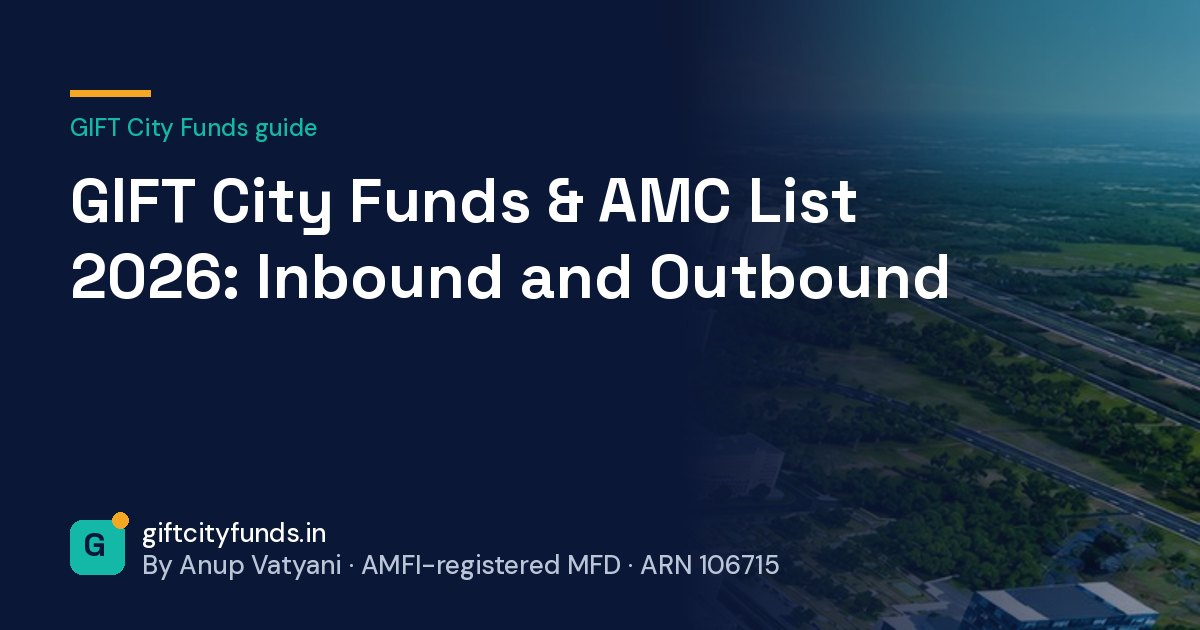
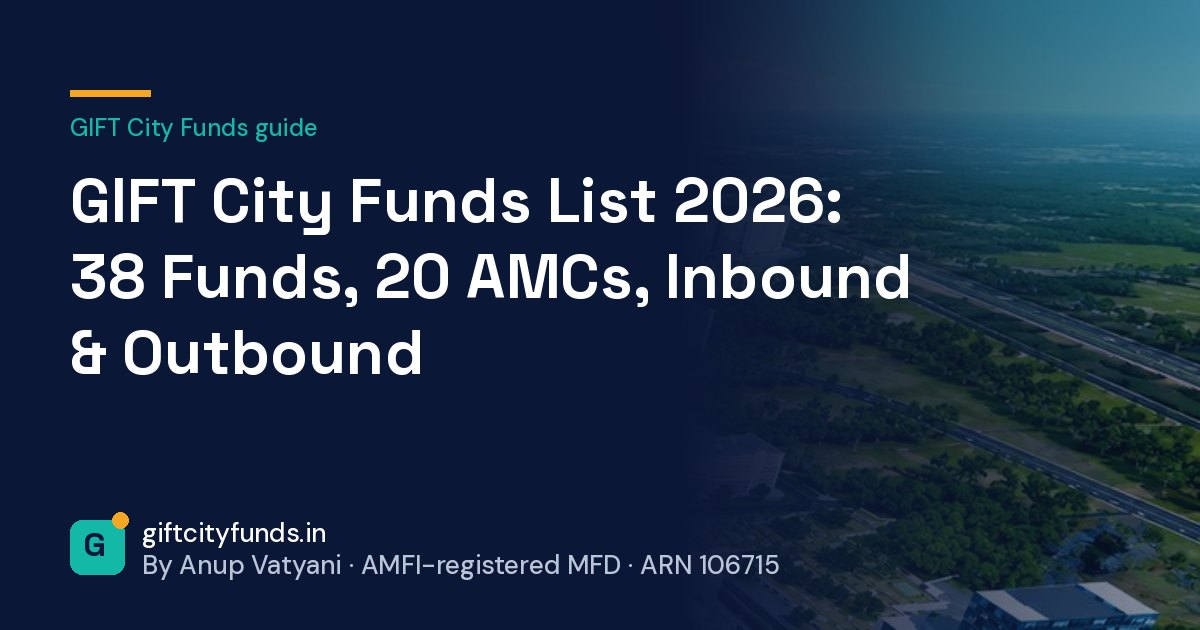
Add files via upload

Changed region(s): [[0.0617, 0.3921, 0.8017, 0.4825], [0.0617, 0.5127, 0.37, 0.6032], [0.4625, 0.2714, 0.7092, 0.3619]]

diff --git a/src/pages/NriGulf.tsx b/src/pages/NriGulf.tsx
@@ -1,0 +1,90 @@
+import { Link } from "react-router-dom";
+import { p, a, ul, h3, table, th, td } from "@/components/GuidePage";
+import { NriCountryPage } from "@/components/NriCountryPage";
+
+// Tax facts per PwC Worldwide Tax Summaries (Saudi Arabia reviewed 29 Jul 2026,
+// Qatar 17 Sep 2026, Kuwait 22 Jul 2026, Bahrain 26 Jul 2026) and KPMG Oman
+// (Royal Decree 56/2025). Re-check before changing.
+const NriGulf = () => (
+  <NriCountryPage
+    code="gulf"
+    path="/gift-city-funds-for-gulf-nris"
+    name="Saudi Arabia, Qatar, Kuwait, Bahrain and Oman"
+    short="Gulf"
+    headline="GIFT City Funds for Gulf NRIs: Saudi Arabia, Qatar, Kuwait, Bahrain and Oman (2026)"
+    seoTitle="GIFT City Funds for Gulf NRIs: Saudi, Qatar, Kuwait, Bahrain, Oman"
+    description="How NRIs in Saudi Arabia, Qatar, Kuwait, Bahrain and Oman invest in GIFT City funds in US Dollars: local tax country by country, Oman's 2028 income tax, India's deemed-resident rule, documents."
+    datePublished="2026-11-02"
+    taxHeading="How Gulf countries tax GIFT City funds"
+    intro={<>NRIs living in Saudi Arabia, Qatar, Kuwait, Bahrain or Oman can invest in GIFT City funds <strong className="text-primary">directly in US Dollars</strong> from a local bank account, with no LRS and no TCS. None of these countries currently taxes individuals on personal investment income, and most Gulf currencies are pegged to the dollar. Two things to watch: <strong className="text-primary">Oman's personal income tax from 2028</strong> for high earners, and India's <strong className="text-primary">deemed-resident rule</strong> if your Indian income is large. If you live in Dubai or Abu Dhabi, see the <Link to="/gift-city-funds-for-uae-nris" className={a}>UAE guide</Link>.</>}
+    facts={[
+      ["Countries covered", "Saudi Arabia, Qatar, Kuwait, Bahrain and Oman (UAE has its own guide)"],
+      ["Local tax on personal investment income", "None in any of the five today; Oman introduces a 5% income tax from 1 January 2028 on gross income above OMR 42,000"],
+      ["Currencies", "Saudi riyal, Qatari riyal, Bahraini dinar and Omani rial are pegged to the US Dollar; the Kuwaiti dinar is pegged to a basket of currencies"],
+      ["Tax treaty with India", "Yes, with each of the five"],
+      ["LRS or TCS?", "No. Those apply only to resident Indians sending money out of India."],
+      ["Main thing to check", "India's deemed-resident rule if your Indian income exceeds ₹15 lakh"],
+    ]}
+    steps={[
+      { title: "Choose a fund", sub: "Inbound (India) or outbound (global)" },
+      { title: "Confirm eligibility", sub: "For your country of residence" },
+      { title: "KYC with the fund house", sub: "Passport, Iqama or residence permit" },
+      { title: "Transfer USD from the Gulf", sub: "Or local currency converted" },
+      { title: "Units allotted", sub: "Track on the investor portal" },
+    ]}
+    fundNote={<>None of the fund houses we track publishes an exclusion for these five countries. Several offer documents exclude FATF-listed jurisdictions; check the current list for your country.</>}
+    tax={
+      <>
+        <div tabIndex={0} role="region" aria-label="Table, scroll sideways to see more" className="overflow-x-auto">
+          <table className={table}>
+            <caption className="sr-only">Tax on personal investment income in the Gulf, country by country</caption>
+            <thead><tr><th className={th}>Country</th><th className={th}>Personal income tax</th><th className={th}>Investment income and gains</th><th className={th}>Currency</th></tr></thead>
+            <tbody>
+              <tr><th scope="row" className={th}>Saudi Arabia</th><td className={td}>No individual income tax scheme</td><td className={td}>Not taxed as personal income</td><td className={td}>Riyal, pegged to USD</td></tr>
+              <tr><th scope="row" className={th}>Qatar</th><td className={td}>No tax on salaries; only qualifying Qatar-source income is taxable</td><td className={td}>Interest and gains on securities not taxed for individuals without a taxable activity in Qatar</td><td className={td}>Riyal, pegged to USD</td></tr>
+              <tr><th scope="row" className={th}>Kuwait</th><td className={td}>No personal income tax regime</td><td className={td}>Not taxed</td><td className={td}>Dinar, pegged to a basket</td></tr>
+              <tr><th scope="row" className={th}>Bahrain</th><td className={td}>No personal income tax regime</td><td className={td}>Not taxed</td><td className={td}>Dinar, pegged to USD</td></tr>
+              <tr><th scope="row" className={th}>Oman</th><td className={td}>None today; 5% from 1 January 2028 on gross income above OMR 42,000</td><td className={td}>Treatment of foreign investment income under the new law awaits executive regulations</td><td className={td}>Rial, pegged to USD</td></tr>
+            </tbody>
+          </table>
+        </div>
+        <h3 className={h3}>Oman's income tax from 2028</h3>
+        <p className={p}>
+          Royal Decree 56/2025 introduces a 5% personal income tax from 1 January 2028 on individuals whose annual gross income exceeds OMR 42,000 (about USD 109,000). Exemptions include a primary residence, and income earned outside Oman may get a one-time two-year exemption. Executive regulations will settle the detail, so Oman-based investors with high incomes should take advice before 2028.
+        </p>
+        <h3 className={h3}>The deemed-resident rule for Gulf NRIs</h3>
+        <p className={p}>
+          Under Section 6(1A) of India's Income-tax Act, an Indian citizen whose income other than foreign-source income exceeds ₹15 lakh is deemed resident in India if they are not liable to tax in any other country because of domicile or residence. Because these countries do not tax individuals' income, Gulf-based NRIs with substantial Indian income should check this every year. Deemed residents are treated as Resident but Not Ordinarily Resident (RNOR).
+        </p>
+        <ul className={ul + " mt-3"}>
+          <li>India has tax treaties with Saudi Arabia, Qatar, Kuwait, Bahrain and Oman. A tax residency certificate from your country's tax authority is usually needed to rely on one.</li>
+          <li>Rules change; confirm your position with a tax adviser in your country.</li>
+        </ul>
+      </>
+    }
+    docs={[
+      "Passport (and OCI card if you are not an Indian citizen)",
+      "Residence permit: Iqama (Saudi Arabia), QID (Qatar), Civil ID (Kuwait), CPR (Bahrain) or resident card (Oman)",
+      "Local address proof, such as a utility bill or tenancy contract",
+      "PAN, if you have one; some funds ask for it",
+      "Tax residency certificate, if you want to rely on a tax treaty",
+      "FATCA and CRS self-certification",
+    ]}
+    money={
+      <p className={p}>
+        Transfer US Dollars from your Gulf bank account to the fund's subscription account, or ask your bank to convert riyals or dinars. With currencies pegged to the dollar (Kuwait's to a basket), the conversion carries little exchange-rate risk; the risk is in the fund's markets and, for inbound funds, the rupee. Redemptions are paid in US Dollars to an account outside India. Compare with an <Link to="/insights/gift-city-fd-vs-nre-fcnr" className={a}>NRE or FCNR deposit</Link>.
+      </p>
+    }
+    faqs={[
+      { q: "Can NRIs in Saudi Arabia invest in GIFT City funds?", a: "Yes. NRIs living in Saudi Arabia can invest in GIFT City funds that accept Saudi residents, in US Dollars from a Saudi bank account, with their passport and Iqama for KYC. Saudi Arabia has no individual income tax scheme." },
+      { q: "Can NRIs in Qatar invest in GIFT City funds?", a: "Yes, in funds that accept Qatar residents. Qatar does not tax salaries, and interest and gains on securities are not taxed for individuals who do not carry on a taxable activity in Qatar." },
+      { q: "Can NRIs in Kuwait, Bahrain or Oman invest in GIFT City funds?", a: "Yes, in funds that accept residents of those countries. Kuwait and Bahrain have no personal income tax. Oman has none today but introduces a 5% tax from 1 January 2028 on gross income above OMR 42,000." },
+      { q: "Can NRIs in the Middle East invest in GIFT City funds?", a: "Yes. NRIs across the Middle East (UAE, Saudi Arabia, Qatar, Kuwait, Bahrain and Oman) can invest in GIFT City funds that accept their country of residence, in US Dollars from a local bank account, without LRS or TCS. The UAE has its own guide; this page covers the other five Gulf countries." },
+      { q: "Do Gulf NRIs pay tax on GIFT City funds?", a: "Not in Saudi Arabia, Qatar, Kuwait or Bahrain on personal investment income under current rules. On the Indian side, many GIFT City funds are structured so that non-residents bear little or no Indian tax; check the specific fund. Watch India's deemed-resident rule if your Indian income exceeds ₹15 lakh." },
+      { q: "Which is better for Gulf NRIs, GIFT City funds or NRE deposits?", a: "They do different jobs. NRE and FCNR deposits are bank deposits; GIFT City funds are market-linked investments in US Dollars. Neither is better in general; it depends on your goals and risk. See our comparison of GIFT City FDs, NRE and FCNR." },
+    ]}
+    sources={["pwcSaudi", "pwcQatar", "pwcKuwait", "pwcBahrain", "kpmgOman", "itResidency", "incomeTax", "ifscaDirectory"]}
+  />
+);
+
+export default NriGulf;

diff --git a/src/pages/NriGuide.tsx b/src/pages/NriGuide.tsx
@@ -29,6 +29,7 @@ const COUNTRIES: Country[] = [
   },
   {
     id: "gulf",
+    page: "/gift-city-funds-for-gulf-nris",
     name: "Saudi Arabia, Qatar, Kuwait, Bahrain and Oman",
     summary: "Like the UAE, most Gulf countries do not tax individuals on investment income, and their currencies are mostly pegged to the US Dollar.",
     tax: [
@@ -126,7 +127,7 @@ const COUNTRIES: Country[] = [
   },
 ];
 
-const CARD_NAME: Record<string, string> = { uae: "the UAE", uk: "the UK", us: "the US", canada: "Canada", singapore: "Singapore" };
+const CARD_NAME: Record<string, string> = { gulf: "Saudi Arabia, Qatar, Kuwait, Bahrain and Oman", uae: "the UAE", uk: "the UK", us: "the US", canada: "Canada", singapore: "Singapore" };
 
 const faqs: Faq[] = [
   { q: "Can NRIs invest in GIFT City in India?", a: "Yes. NRIs can invest in GIFT City funds, deposits, bonds and US stocks through India's GIFT IFSC, usually in US Dollars from an overseas bank account, without LRS or TCS. Each fund or bank sets its own eligibility; some exclude US or Canadian residents." },
@@ -146,7 +147,7 @@ const NriGuide = () => (
     description="GIFT City funds for NRIs: invest in USD with no LRS, minimums from USD 500, documents, and tax rules for the UAE, Gulf, UK, US, Canada, Singapore and Australia."
     crumb="GIFT City Funds for NRIs"
     datePublished="2026-10-09"
-    dateModified="2026-10-26"
+    dateModified="2026-11-02"
     faqs={faqs}
     sources={["ifscaDirectory", "irs8621", "uaeTax", "hmrcOffshore", "ukFig", "craT1135", "irasOverseas", "incomeTax"]}
   >
@@ -212,8 +213,8 @@ const NriGuide = () => (
         <thead><tr><th className={th}>Where you live</th><th className={th}>Home tax on investment income</th><th className={th}>Main thing to check</th></tr></thead>
         <tbody>
           <tr><td className={td}><Link to="/gift-city-funds-for-uae-nris" className={a}>UAE</Link></td><td className={td}>None for individuals</td><td className={td}>Indian deemed-resident rule</td></tr>
-          <tr><td className={td}>Saudi, Qatar, Kuwait, Bahrain</td><td className={td}>None for individuals</td><td className={td}>Fund eligibility for your country</td></tr>
-          <tr><td className={td}>Oman</td><td className={td}>5% on high earners from 2028</td><td className={td}>Whether it applies to you</td></tr>
+          <tr><td className={td}><Link to="/gift-city-funds-for-gulf-nris" className={a}>Saudi, Qatar, Kuwait, Bahrain</Link></td><td className={td}>None for individuals</td><td className={td}>Fund eligibility for your country</td></tr>
+          <tr><td className={td}><Link to="/gift-city-funds-for-gulf-nris" className={a}>Oman</Link></td><td className={td}>5% on high earners from 2028</td><td className={td}>Whether it applies to you</td></tr>
           <tr><td className={td}><Link to="/gift-city-funds-for-uk-nris" className={a}>UK</Link></td><td className={td}>Yes</td><td className={td}>Reporting fund status</td></tr>
           <tr><td className={td}><Link to="/gift-city-funds-for-us-nris" className={a}>US</Link></td><td className={td}>Yes</td><td className={td}>Whether US persons are accepted; PFIC</td></tr>
           <tr><td className={td}><Link to="/gift-city-funds-for-canada-nris" className={a}>Canada</Link></td><td className={td}>Yes</td><td className={td}>Eligibility; T1135 reporting</td></tr>

diff --git a/src/components/NriCountryPage.tsx b/src/components/NriCountryPage.tsx
@@ -5,7 +5,7 @@ import { FlowSteps } from "@/components/Diagrams";
 import type { SourceKey } from "@/components/OfficialSources";
 import { LOW_MIN, HIGH_MIN, FUNDS_LAST_CHECKED } from "@/data/funds";
 
-export type CountryCode = "uae" | "uk" | "us" | "sg" | "ca";
+export type CountryCode = "uae" | "uk" | "us" | "sg" | "ca" | "gulf";
 
 export interface CountryPageProps {
   code: CountryCode;
@@ -20,6 +20,7 @@ export interface CountryPageProps {
   facts: [string, ReactNode][];
   steps: { title: string; sub: string }[];
   tax: ReactNode;
+  taxHeading?: string;
   docs: string[];
   money: ReactNode;
   fundNote?: ReactNode;
@@ -102,7 +103,7 @@ export const NriCountryPage = (c: CountryPageProps) => {
         Full details, minimums and sources: <Link to="/gift-city-fund-list" className={a}>GIFT City fund list</Link>.
       </p>
 
-      <h2 className={h2}>How {c.short} taxes GIFT City funds</h2>
+      <h2 className={h2}>{c.taxHeading ?? `How ${c.short} taxes GIFT City funds`}</h2>
       {c.tax}
 
       <h2 className={h2}>Indian tax for NRIs in {c.name}</h2>
@@ -123,7 +124,7 @@ export const NriCountryPage = (c: CountryPageProps) => {
 
       <h2 className={h2}>Other countries</h2>
       <p className={p}>
-        Guides for <Link to="/gift-city-funds-for-uae-nris" className={a}>the UAE</Link>, <Link to="/gift-city-funds-for-uk-nris" className={a}>the UK</Link>, <Link to="/gift-city-funds-for-us-nris" className={a}>the US</Link>, <Link to="/gift-city-funds-for-singapore-nris" className={a}>Singapore</Link> and <Link to="/gift-city-funds-for-canada-nris" className={a}>Canada</Link>, and the Gulf and Australia on the main <Link to="/gift-city-funds-for-nri" className={a}>GIFT City for NRIs</Link> page.
+        Guides for <Link to="/gift-city-funds-for-uae-nris" className={a}>the UAE</Link>, <Link to="/gift-city-funds-for-gulf-nris" className={a}>Saudi Arabia, Qatar, Kuwait, Bahrain and Oman</Link>, <Link to="/gift-city-funds-for-uk-nris" className={a}>the UK</Link>, <Link to="/gift-city-funds-for-us-nris" className={a}>the US</Link>, <Link to="/gift-city-funds-for-singapore-nris" className={a}>Singapore</Link> and <Link to="/gift-city-funds-for-canada-nris" className={a}>Canada</Link>, and Australia on the main <Link to="/gift-city-funds-for-nri" className={a}>GIFT City for NRIs</Link> page.
       </p>
     </GuidePage>
   );

diff --git a/src/pages/Home.tsx b/src/pages/Home.tsx
@@ -9,6 +9,9 @@ import TicketLadder from "@/components/TicketLadder";
 import LatestNews from "@/components/LatestNews";
 import HomeFundFinder from "@/components/HomeFundFinder";
 const PAGE_FAQS: PageFaq[] = [
+  { q: "Which GIFT City fund is best?", a: "There is no single best GIFT City fund. The right fund depends on where you live, whether you want Indian or global markets, how much you invest and your tax position. Our GIFT City fund list sets out every fund we could verify, with minimums and who can invest, without ranking them." },
+  { q: "Is it good to invest in GIFT City?", a: "It can suit some investors and not others. GIFT City funds offer US Dollar investing under IFSCA regulation, from USD 500 for some retail funds, and are not limited by the SEBI overseas cap. Drawbacks include no SIP, LRS and 20% TCS above ₹10 lakh for residents, short track records and, for US persons, PFIC rules. This is general information, not advice." },
+  { q: "How does a GIFT City fund work?", a: "A GIFT City fund is run by a Fund Management Entity registered with IFSCA in GIFT IFSC, Gandhinagar. You complete the fund's KYC and send US Dollars: residents under LRS, NRIs from an account abroad. The fund invests in India (inbound) or abroad (outbound), often by feeding into another fund, and pays redemptions in US Dollars." },
   { q: "What investment opportunities are there in GIFT City?", a: "For individuals: GIFT City mutual funds and feeder funds, AIFs and PMS for larger amounts, US Dollar fixed deposits at IFSC Banking Units, US stocks and ETFs through IFSC brokers, and dollar insurance products. Each has different minimums, risks and tax." },
   { q: "What is GiftCityFunds?", a: "GiftCityFunds (giftcityfunds.in) is an educational website about GIFT City funds, written by Anup Vatyani, an AMFI-registered Mutual Fund Distributor (ARN 106715). It is not a fund house, a bank or an investment platform, and it does not give personalised advice." },
   { q: "What are GIFT City mutual funds?", a: "GIFT City mutual funds are funds set up in India's International Financial Services Centre (GIFT IFSC) in Gandhinagar and regulated by IFSCA. They include retail schemes, feeder funds, AIFs and portfolio management services, run by IFSCA-registered Fund Management Entities, many of them arms of well-known Indian fund houses." },

diff --git a/src/components/OfficialSources.tsx b/src/components/OfficialSources.tsx
@@ -25,6 +25,11 @@ const SOURCES = {
   irsFbar: { label: "IRS — Report of Foreign Bank and Financial Accounts (FBAR)", url: "https://www.irs.gov/businesses/small-businesses-self-employed/report-of-foreign-bank-and-financial-accounts-fbar", note: "Reporting foreign accounts above USD 10,000 in aggregate." },
   irs8938: { label: "IRS — Comparison of Form 8938 and FBAR requirements", url: "https://www.irs.gov/businesses/comparison-of-form-8938-and-fbar-requirements", note: "FATCA asset reporting thresholds for US taxpayers." },
   craCapitalGains: { label: "Canada Revenue Agency — Line 12700 Capital gains", url: "https://www.canada.ca/en/revenue-agency/services/tax/individuals/topics/about-your-tax-return/tax-return/completing-a-tax-return/personal-income/line-12700-capital-gains.html", note: "How Canadian residents report capital gains." },
+  pwcSaudi: { label: "PwC Worldwide Tax Summaries — Saudi Arabia, individual", url: "https://taxsummaries.pwc.com/saudi-arabia/individual/taxes-on-personal-income", note: "No individual income tax scheme (reviewed 29 July 2026)." },
+  pwcQatar: { label: "PwC Worldwide Tax Summaries — Qatar, income determination", url: "https://taxsummaries.pwc.com/qatar/individual/income-determination", note: "Interest and gains on securities for individuals (reviewed 17 September 2026)." },
+  pwcKuwait: { label: "PwC Worldwide Tax Summaries — Kuwait, individual", url: "https://taxsummaries.pwc.com/kuwait/individual/tax-administration", note: "No personal income tax regime (reviewed 22 July 2026)." },
+  pwcBahrain: { label: "PwC Worldwide Tax Summaries — Bahrain, individual", url: "https://taxsummaries.pwc.com/bahrain/individual/taxes-on-personal-income", note: "No personal income tax regime (reviewed 26 July 2026)." },
+  kpmgOman: { label: "KPMG — Oman introduces personal income tax from 1 January 2028", url: "https://kpmg.com/om/en/insights/2025/06/oman-announces-the-introduction-of-personal-income-tax-effective-1-january-2028.html", note: "Royal Decree 56/2025: 5% above OMR 42,000." },
   canadaIta941: { label: "Justice Laws — Income Tax Act section 94.1 (offshore investment fund property)", url: "https://laws-lois.justice.gc.ca/eng/acts/I-3.3/section-94.1.html", note: "Canada's rule that can impute income on certain offshore fund holdings." },
 } as const;
 

diff --git a/src/components/RelatedGuides.tsx b/src/components/RelatedGuides.tsx
@@ -11,6 +11,7 @@ const GUIDES: Record<string, Guide> = {
   funds: { to: "/funds-explained", title: "GIFT City Fund Categories Explained", blurb: "Mutual Fund FoFs, AIFs, PMS and feeder funds compared." },
   who: { to: "/who-its-for", title: "Who Can Invest in GIFT City Funds?", blurb: "How it works for NRIs, OCIs and resident Indians." },
   us: { to: "/gift-city-funds-for-us-nris", title: "GIFT City Funds for US NRIs", blurb: "Eligibility, PFIC, Form 8621 and FBAR." },
+  gulfNri: { to: "/gift-city-funds-for-gulf-nris", title: "GIFT City Funds for Gulf NRIs", blurb: "Saudi Arabia, Qatar, Kuwait, Bahrain and Oman." },
   uaeNri: { to: "/gift-city-funds-for-uae-nris", title: "GIFT City Funds for UAE NRIs", blurb: "No UAE tax, TRC and the deemed-resident rule." },
   ukNri: { to: "/gift-city-funds-for-uk-nris", title: "GIFT City Funds for UK NRIs", blurb: "Reporting fund status, CGT and the FIG regime." },
   sgNri: { to: "/gift-city-funds-for-singapore-nris", title: "GIFT City Funds for Singapore NRIs", blurb: "No capital gains tax, treaty and currency." },
@@ -60,7 +61,7 @@ const GUIDES: Record<string, Guide> = {
 
 // Which guides to suggest at the bottom of each page.
 const RELATED: Record<string, (keyof typeof GUIDES)[]> = {
-  "/gift-city-funds-for-nri": ["uaeNri", "ukNri", "us"],
+  "/gift-city-funds-for-nri": ["uaeNri", "gulfNri", "us"],
   "/gift-city-funds-for-oci": ["byCountry", "us", "checker"],
   "/gift-city-funds-for-resident-indians": ["abroad", "vsIntl", "lrs"],
   "/what-is-gift-city": ["guide", "ifsca", "list"],
@@ -97,7 +98,8 @@ const RELATED: Record<string, (keyof typeof GUIDES)[]> = {
   "/gift-city-moving-country": ["redeem", "byCountry", "pfic"],
   "/gift-city-rules-updates": ["news", "minimums", "ifsca"],
   "/gift-city-news": ["rules", "list", "markets"],
-  "/gift-city-funds-for-uae-nris": ["byCountry", "vsNre", "docs"],
+  "/gift-city-funds-for-uae-nris": ["gulfNri", "vsNre", "docs"],
+  "/gift-city-funds-for-gulf-nris": ["uaeNri", "vsNre", "docs"],
   "/gift-city-funds-for-uk-nris": ["byCountry", "moving", "list"],
   "/gift-city-funds-for-us-nris": ["pfic", "byCountry", "moving"],
   "/gift-city-funds-for-singapore-nris": ["byCountry", "redeem", "list"],

diff --git a/src/App.tsx b/src/App.tsx
@@ -30,6 +30,7 @@ const FundList = lazyPage(() => import("./pages/FundList"));
 const GiftCitySip = lazyPage(() => import("./pages/GiftCitySip"));
 const GiftCityNews = lazyPage(() => import("./pages/GiftCityNews"));
 const NriUae = lazyPage(() => import("./pages/NriUae"));
+const NriGulf = lazyPage(() => import("./pages/NriGulf"));
 const NriUk = lazyPage(() => import("./pages/NriUk"));
 const NriUs = lazyPage(() => import("./pages/NriUs"));
 const NriSingapore = lazyPage(() => import("./pages/NriSingapore"));
@@ -92,6 +93,7 @@ const PAGE_FOR_PATH: Record<string, LazyPage> = {
   "/gift-city-sip": GiftCitySip,
   "/gift-city-news": GiftCityNews,
   "/gift-city-funds-for-uae-nris": NriUae,
+  "/gift-city-funds-for-gulf-nris": NriGulf,
   "/gift-city-funds-for-uk-nris": NriUk,
   "/gift-city-funds-for-us-nris": NriUs,
   "/gift-city-funds-for-singapore-nris": NriSingapore,
@@ -195,6 +197,7 @@ const App = ({ ssrUrl, helmetContext }: AppProps = {}) => (
               <Route path="/gift-city-glossary" element={<Glossary />} />
               <Route path="/gift-city-route-checker" element={<RouteChecker />} />
               <Route path="/gift-city-funds-for-uae-nris" element={<NriUae />} />
+              <Route path="/gift-city-funds-for-gulf-nris" element={<NriGulf />} />
               <Route path="/gift-city-funds-for-uk-nris" element={<NriUk />} />
               <Route path="/gift-city-funds-for-us-nris" element={<NriUs />} />
               <Route path="/gift-city-funds-for-singapore-nris" element={<NriSingapore />} />

diff --git a/src/components/Navigation.tsx b/src/components/Navigation.tsx
@@ -29,6 +29,7 @@ const Navigation = () => {
     { label: "For Resident Indians", path: "/gift-city-funds-for-resident-indians", ariaLabel: "GIFT City funds for resident Indians" },
     { label: "Invest Abroad from India", path: "/invest-abroad-from-india", ariaLabel: "Ways to invest abroad from India compared" },
     { label: "NRIs in the UAE", path: "/gift-city-funds-for-uae-nris", ariaLabel: "GIFT City funds for UAE NRIs" },
+    { label: "NRIs in Saudi, Qatar, Kuwait, Bahrain, Oman", path: "/gift-city-funds-for-gulf-nris", ariaLabel: "GIFT City funds for Gulf NRIs" },
     { label: "NRIs in the UK", path: "/gift-city-funds-for-uk-nris", ariaLabel: "GIFT City funds for UK NRIs" },
     { label: "NRIs in the US", path: "/gift-city-funds-for-us-nris", ariaLabel: "GIFT City funds for US NRIs" },
     { label: "NRIs in Singapore", path: "/gift-city-funds-for-singapore-nris", ariaLabel: "GIFT City funds for Singapore NRIs" },

diff --git a/src/pages/Insights.tsx b/src/pages/Insights.tsx
@@ -20,6 +20,7 @@ const CLUSTERS: { id: string; title: string; blurb: string; icon: typeof Users; 
       ["/gift-city-funds-for-nri", "GIFT City funds for NRIs, country by country", "Guide"],
       ["/gift-city-funds-for-oci", "GIFT City funds for OCIs", "Guide"],
       ["/gift-city-funds-for-uae-nris", "GIFT City funds for UAE NRIs", "Guide"],
+      ["/gift-city-funds-for-gulf-nris", "GIFT City funds for Gulf NRIs", "Guide"],
       ["/gift-city-funds-for-uk-nris", "GIFT City funds for UK NRIs", "Guide"],
       ["/gift-city-funds-for-us-nris", "GIFT City funds for US NRIs", "Guide"],
       ["/gift-city-funds-for-singapore-nris", "GIFT City funds for Singapore NRIs", "Guide"],

diff --git a/src/components/Footer.tsx b/src/components/Footer.tsx
@@ -70,6 +70,9 @@ const Footer = () => {
                 <Link to="/gift-city-funds-for-uae-nris" className="text-primary-foreground/80 hover:text-primary-foreground transition-corporate">NRIs in the UAE</Link>
               </li>
               <li>
+                <Link to="/gift-city-funds-for-gulf-nris" className="text-primary-foreground/80 hover:text-primary-foreground transition-corporate">NRIs in the Gulf</Link>
+              </li>
+              <li>
                 <Link to="/gift-city-funds-for-uk-nris" className="text-primary-foreground/80 hover:text-primary-foreground transition-corporate">NRIs in the UK</Link>
               </li>
               <li>
